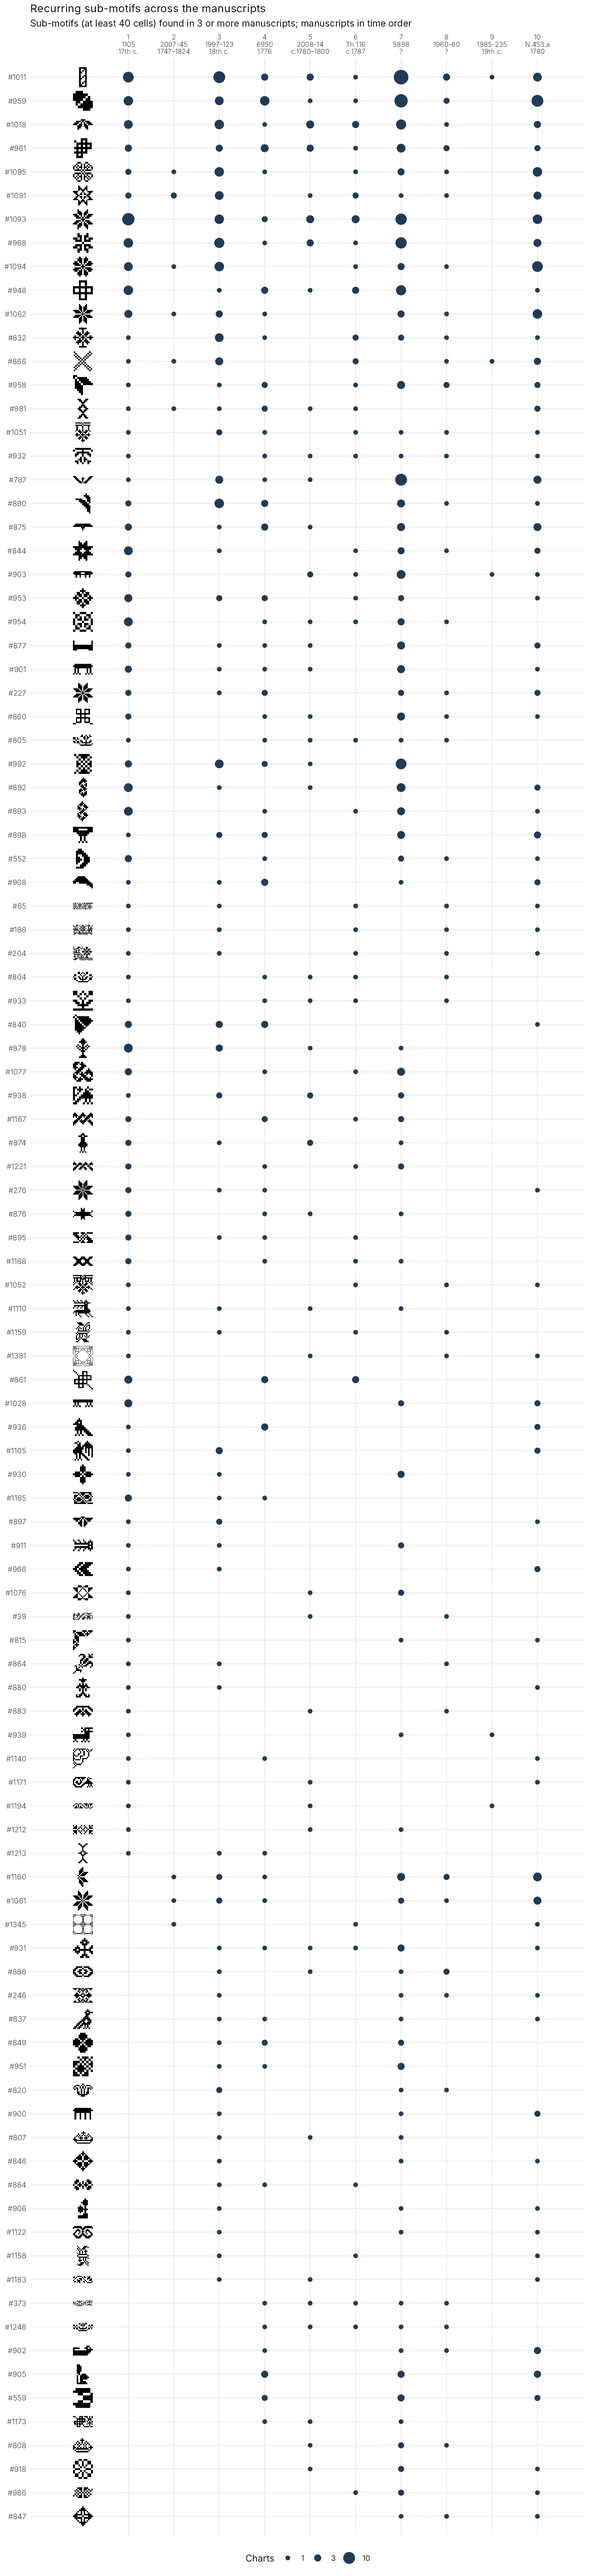
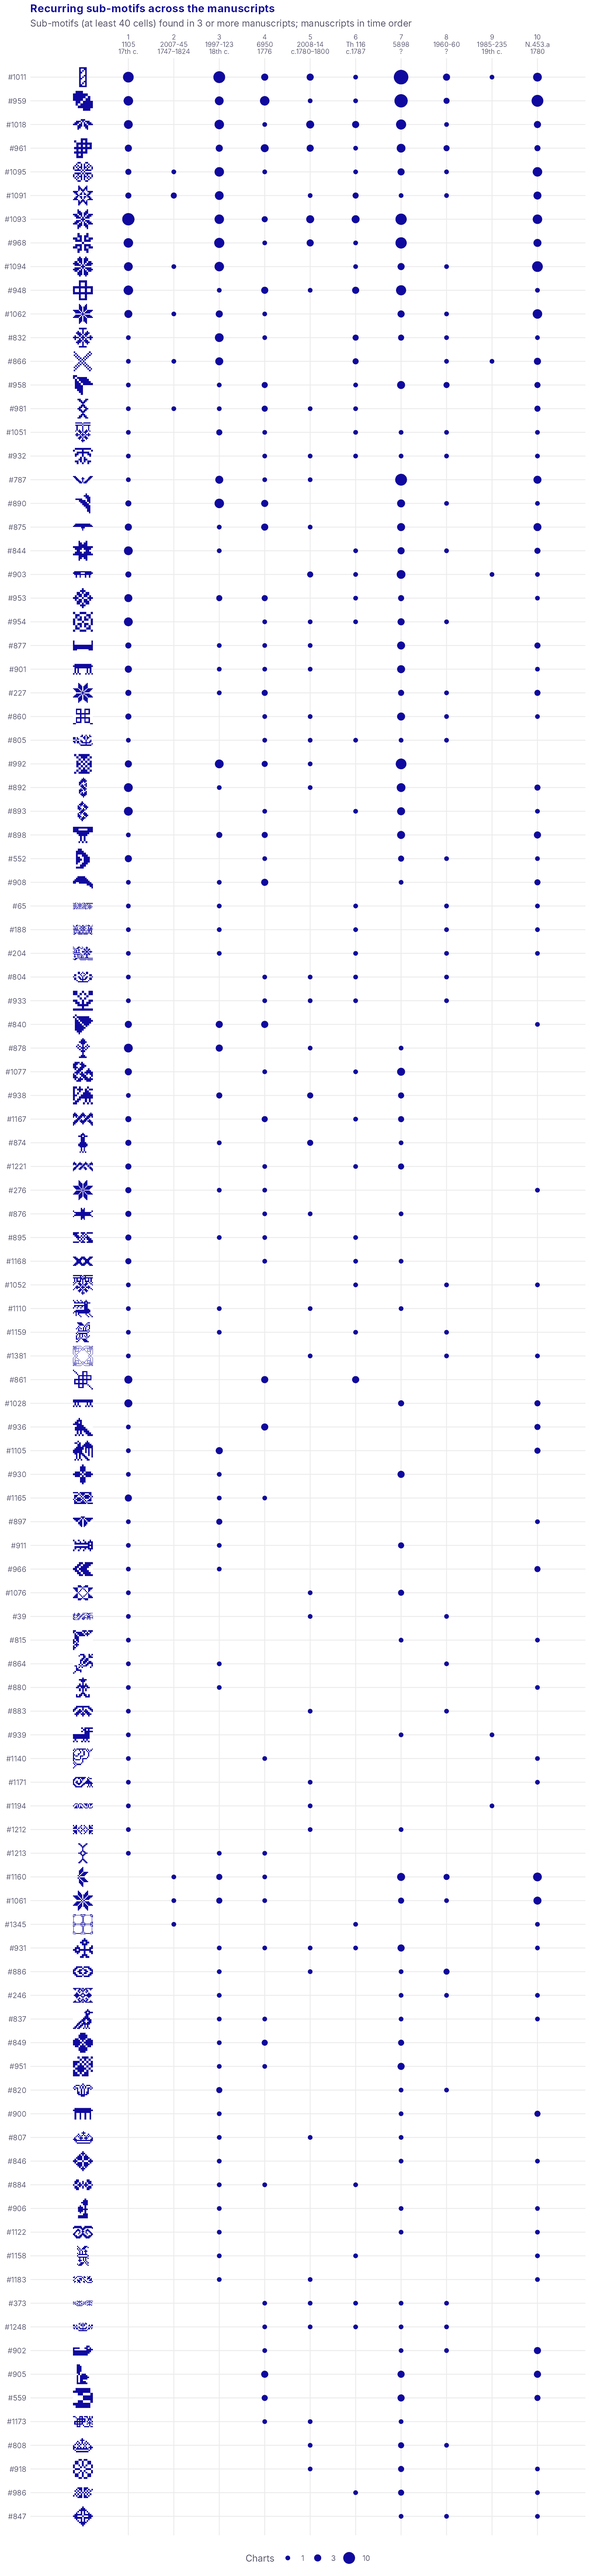
Sub-motif pictures and timeline in the HÍ palette
Claude-Session: https://claude.ai/code/session_01BPvtkp6nvRNJyGT9GKeu13

diff --git a/analysis/subjects/submotifs.py b/analysis/subjects/submotifs.py
@@ -38,6 +38,8 @@ SHIFT = 2
 MATCH = 0.7
 INNER_CELLS = 20     # smallest figure looked for as a repeat inside one chart
 JOINED_CELLS = 30    # smallest sub-motif searched for where joined to other figures
+HI_BLUE = (16, 9, 159)  # HÍ palette, as in pattern_processing/pattern_to_png.py
+WHITE = (255, 255, 255)
 GENERIC = 0.15       # a sub-motif in more than this share of charts is too common to tell charts apart
 OUT = WORK / "submotifs"
 
@@ -328,7 +330,8 @@ class SubMotifs:
             if m in drawn or len(charts[m]) < 2:
                 continue
             drawn.add(m)
-            Image.fromarray(np.where(p.cells == 1, 0, 255).astype(np.uint8)).save(OUT / "png" / f"{m}.png")
+            Image.fromarray(np.where(p.cells[..., None] == 1, HI_BLUE, WHITE).astype(np.uint8)).save(
+                OUT / "png" / f"{m}.png")
         ids, d = self.chart_distance()
         ALL.mkdir(parents=True, exist_ok=True)
         write_matrix(ALL / "submotif_dist.csv", ids, d)
